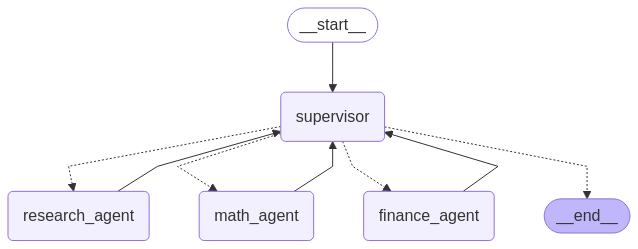
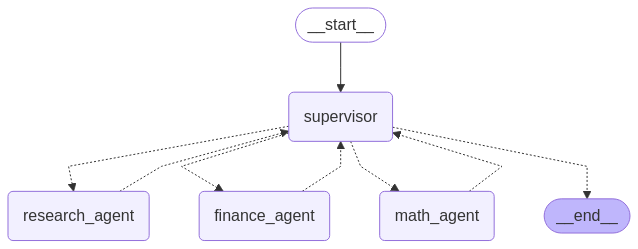
add 14-mutliagent-supervisor-scratch-so

diff --git a/ML Projects/Langgraph-Practice/14-mutliagent-supervisor-scratch-with-so/functions.py b/ML Projects/Langgraph-Practice/14-mutliagent-supervisor-scratch-with-so/functions.py
@@ -1,6 +1,6 @@
 from common_imports import *
 from constants import *
-from classes import AgentState, CityDetails
+from classes import AgentState
 
 def displayGraph(graph):
     # print(graph.get_graph().draw_ascii())
@@ -30,110 +30,103 @@ def get_stock_price(ticker: str) -> float:
     stock = yf.Ticker(ticker)
     return stock.info['previousClose']
 
-def create_handoff_tool(agent_name, description):
-    name = f"transfer_to_{agent_name}"
-    description = description or f"Ask {agent_name} for help."
+def make_supervisor_node(llm, members) -> str:
+    print("====SUPERVISOR NODE=====")
+    options = ["FINISH"] + members
+    system_prompt = (
+        "You are a supervisor tasked with managing a conversation between the"
+        f" following workers: {members}. Given the following user request,"
+        " respond with the worker to act next. Each worker will perform a"
+        " task and respond with their results and status. When finished,"
+        " respond with FINISH."
+    )
 
-    @tool(name, description=description)
-    def handoff_tool(state: Annotated[AgentState, InjectedState], tool_call_id: Annotated[str, InjectedToolCallId]) -> Command:
-        print("\n=== Current State ===")
+    class Router(TypedDict):
+        """Worker to route to next. If no workers needed, route to FINISH."""
+
+        next: Literal[*options]
+
+    def supervisor_node(state: AgentState) -> Command[Literal[*members, END]]:
+        print("===STATE=====")
         print(state)
-        print(f"Tool Call ID: {tool_call_id}")
-        print(f"Transferring to: {agent_name}")
-        print("===================\n")
-        
-        tool_message = {
-            "role": "tool",
-            "content": f"Successfully transferred to {agent_name}",
-            "name": name,
-            "tool_call_id": tool_call_id,
-        }
-        return Command(
-            goto=agent_name,
-            update={**state, "messages": state["messages"] + [tool_message], "question": state["question"], "instructions": state["instructions"]}, # update the state with the tool message
-            graph=Command.PARENT, # transfer control back to the parent graph (supervisor agent)
-        )
+        """An LLM-based router."""
+        previous_messages = state["messages"]
+        invoke_message = [{"role": "system", "content": system_prompt},] + previous_messages
+        print("===INVOKE MESSAGE=====")
+        print(invoke_message)
+        llm_with_structured_output = llm.with_structured_output(Router)
+        response = llm_with_structured_output.invoke(invoke_message)
+        print("===RESPONSE=====")
+        print(response)
+        goto = response["next"]
+        if goto == "FINISH":
+            goto = END
+        print("===GOTO=====")
+        print(goto)
+        return Command(goto=goto, update={"next": goto})
 
-    return handoff_tool
+    return supervisor_node
 
+
+def research_node(state: AgentState) -> Command[Literal[SUPERVISOR_AGENT]]:
+    print("====RESEARCH NODE=====")
+    print("===STATE=====")
+    print(state)
+    research_agent = create_react_agent(llm, tools=research_agent_tools)
+    result = research_agent.invoke(state)
+    print("===RESULT=====")
+    print(result)
+    return Command(
+        update={
+            "messages": [
+                HumanMessage(content=result["messages"][-1].content, name=RESEARCH_AGENT)
+            ]
+        },
+        # We want our workers to ALWAYS "report back" to the supervisor when done
+        goto=SUPERVISOR_AGENT,
+    )
+
+def finance_node(state: AgentState) -> Command[Literal[SUPERVISOR_AGENT]]:
+    print("====FINANCE NODE=====")
+    print("===STATE=====")
+    print(state)
+    finance_agent = create_react_agent(llm, tools=finance_agent_tools)
+    result = finance_agent.invoke(state)
+    print("===RESULT=====")
+    print(result)
+    return Command(
+        update={
+            "messages": [
+                HumanMessage(content=result["messages"][-1].content, name=FINANCE_AGENT)
+            ]
+        },
+        goto=SUPERVISOR_AGENT,
+    )
+
+def math_node(state: AgentState) -> Command[Literal[SUPERVISOR_AGENT]]:
+    print("====MATH NODE=====")
+    print("===STATE=====")
+    print(state)
+    math_agent = create_react_agent(llm, tools=math_agent_tools)
+    result = math_agent.invoke(state)
+    print("===RESULT=====")
+    print(result)
+    return Command(
+        update={
+            "messages": [
+                HumanMessage(content=result["messages"][-1].content, name=MATH_AGENT)
+            ]
+        },
+        goto=SUPERVISOR_AGENT,
+    )
 
 web_search_tool = TavilySearchResults(max_results=3)
-
-embeddings = OpenAIEmbeddings()
 math_agent_tools = [multiply, add, divide]
 research_agent_tools = [web_search_tool]
 finance_agent_tools = [get_stock_price]
 
 llm = ChatOpenAI(model_name="gpt-4o-mini")
-llm_with_structured_output = llm.with_structured_output(CityDetails)
 
-
-research_agent = create_react_agent(
-    model=llm,
-    tools=[web_search_tool],
-    response_format=CityDetails,
-    prompt=(
-        "You are a research agent.\n\n"
-        "INSTRUCTIONS:\n"
-        "- Assist ONLY with research-related tasks, DO NOT do any math\n"
-        "- After you're done with your tasks, respond to the supervisor directly\n"
-        "- Respond ONLY with the results of your work, do NOT include ANY other text."
-    ),
-    name=RESEARCH_AGENT,
-)
-
-math_agent = create_react_agent(
-    model=llm,
-    tools=math_agent_tools,
-    prompt=(
-        "You are a math agent.\n\n"
-        "INSTRUCTIONS:\n"
-        "- Assist ONLY with math-related tasks\n"
-        "- After you're done with your tasks, respond to the supervisor directly\n"
-        "- Respond ONLY with the results of your work, do NOT include ANY other text."
-    ),
-    name=MATH_AGENT,
-)
-
-finance_agent = create_react_agent(
-    model=llm,
-    tools=finance_agent_tools,
-    prompt=(
-        "You are a finance agent.\n\n"
-        "INSTRUCTIONS:\n"
-        "- Assist ONLY with finance-related tasks\n"
-        "- After you're done with your tasks, respond to the supervisor directly\n"
-        "- Respond ONLY with the results of your work, do NOT include ANY other text."
-    ),
-    name=FINANCE_AGENT,
-)
-
-# Handoffs
-assign_to_research_agent = create_handoff_tool(
-    agent_name=RESEARCH_AGENT,
-    description="Assign task to a researcher agent.",
-)
-
-assign_to_math_agent = create_handoff_tool(
-    agent_name=MATH_AGENT,
-    description="Assign task to a math agent.",
-)
-
-assign_to_finance_agent = create_handoff_tool(
-    agent_name=FINANCE_AGENT,
-    description="Assign task to a finance agent.",
-)
-
-supervisor_agent = create_react_agent(
-    model=llm,
-    tools=[assign_to_research_agent, assign_to_math_agent, assign_to_finance_agent],
-    prompt=(
-        "You are a supervisor managing three agents:\n"
-        "- a research agent. Assign research-related tasks to this agent\n"
-        "- a math agent. Assign math-related tasks to this agent\n"
-        "- a finance agent. Assign finance-related tasks to this agent\n"
-        "Assign work to one agent at a time, do not call agents in parallel.\n"
-        "Do not do any work yourself."
-    ),
-    name=SUPERVISOR_AGENT,
-)
+# members = {RESEARCH_AGENT:"use it for researching on the web", FINANCE_AGENT:"use it for getting stock price", MATH_AGENT:"use it for doing math operations"}
+members = [RESEARCH_AGENT, FINANCE_AGENT, MATH_AGENT]
+supervisor_agent = make_supervisor_node(llm, members=members)

diff --git a/ML Projects/Langgraph-Practice/14-mutliagent-supervisor-scratch-with-so/classes.py b/ML Projects/Langgraph-Practice/14-mutliagent-supervisor-scratch-with-so/classes.py
@@ -1,35 +1,4 @@
 from common_imports import *
 
-class CityDetails(BaseModel):
-    """Respond to the user with this"""
-    city_name: str = Field(description="Name of the city")
-    state_name: str = Field(description="State name of the city")
-    state_capital: str = Field(description="State capital of the city")
-    country_name: str = Field(description="Country name of the city")
-    country_capital: str = Field(description="Country capital of the city")
-    summary: str = Field(description="Summary of the city")
-
-class ResearchResponse(BaseModel):
-    """Response format for research agent"""
-    findings: str = Field(description="The research findings")
-    sources: List[str] = Field(description="List of sources used")
-    summary: str = Field(description="Brief summary of the findings")
-
-class MathResponse(BaseModel):
-    """Response format for math agent"""
-    calculation: str = Field(description="The mathematical calculation performed")
-    result: float = Field(description="The numerical result")
-    explanation: str = Field(description="Explanation of the calculation")
-
-class FinanceResponse(BaseModel):
-    """Response format for finance agent"""
-    ticker: str = Field(description="The stock ticker symbol")
-    price: float = Field(description="The stock price")
-    company_name: str = Field(description="Name of the company")
-    additional_info: str = Field(description="Any additional financial information")
-
 class AgentState(MessagesState):
-    """State for the agent."""
-    question: str = Field(description="The question to answer")
-    instructions: str = Field(description="The instructions to follow")
-    final_response: CityDetails = Field(description="The final response to the user")
+    next: str = Field(description="The next agent to call")

diff --git a/ML Projects/Langgraph-Practice/14-mutliagent-supervisor-scratch-with-so/main.py b/ML Projects/Langgraph-Practice/14-mutliagent-supervisor-scratch-with-so/main.py
@@ -7,10 +7,13 @@ if __name__ == "__main__":
     # question = "find US and New York state GDP in 2024. what percentage of US GDP was New York state?? Multiply the result by 369."
     # question = "Who's the richest person in the world? Find what company they own and what's the stock price of the company! Finally, multuply the stock price by 369."
     # question = "What's the stock price of the most valuable company in the world? Give me the name of the CEO of the company too."
-    question = "Tell me about the city of New York."
-    instructions = "Also, give a brief summary of the place in 2-3 sentences."
+    question = "What's the stock price of Tesla?"
+    # question = "Give me some information about Najafgarh"
+    # question = "What is ((3*5) + 10)*5? Also, who's the richest person in the world?"
     displayGraph(graph)
-    result = graph.invoke({"messages": [question], "question": question, "instructions": instructions})
+    result = graph.invoke({"messages": [question]})
     print("======RESULT=======")
+    print(result)
+    print("======FINAL RESPONSE=======")
     for msg in result['messages']:
         msg.pretty_print()

diff --git a/ML Projects/Langgraph-Practice/14-mutliagent-supervisor-scratch-with-so/graph.py b/ML Projects/Langgraph-Practice/14-mutliagent-supervisor-scratch-with-so/graph.py
@@ -1,17 +1,16 @@
-from functions import supervisor_agent, research_agent, math_agent, finance_agent
+from functions import supervisor_agent, research_node, math_node, finance_node
 from constants import *
 from common_imports import *
 from classes import AgentState
 
-graph = (
-    StateGraph(AgentState)
-    .add_node(supervisor_agent, destinations=(RESEARCH_AGENT, MATH_AGENT, FINANCE_AGENT, END))
-    .add_node(research_agent)
-    .add_node(math_agent)
-    .add_node(finance_agent)
-    .add_edge(START, SUPERVISOR_AGENT)
-    .add_edge(RESEARCH_AGENT, SUPERVISOR_AGENT)
-    .add_edge(MATH_AGENT, SUPERVISOR_AGENT)
-    .add_edge(FINANCE_AGENT, SUPERVISOR_AGENT)
-    .compile()
-)
+workflow = StateGraph(AgentState)
+
+workflow.add_node(SUPERVISOR_AGENT, supervisor_agent)
+workflow.add_node(RESEARCH_AGENT, research_node)
+workflow.add_node(MATH_AGENT, math_node)
+workflow.add_node(FINANCE_AGENT, finance_node)
+
+workflow.add_edge(START, SUPERVISOR_AGENT)
+
+graph = workflow.compile()
+

diff --git a/ML Projects/Langgraph-Practice/13-mutliagent-supervisor-with-handoffs/main.py b/ML Projects/Langgraph-Practice/13-mutliagent-supervisor-with-handoffs/main.py
@@ -3,8 +3,9 @@ from functions import displayGraph
 from graph import graph
 
 if __name__ == "__main__":
-    print("Hello from Multi-Agent Supervisor from scratch!")
-    question = "find US and New York state GDP in 2024. what percentage of US GDP was New York state?? Multiply the result by 369."
+    print("Hello from Multi-Agent Supervisor with Handoffs!")
+    # question = "find US and New York state GDP in 2024. what percentage of US GDP was New York state?? Multiply the result by 369."
+    question = "Who's the richest person in the world?"
     displayGraph(graph)
     result = graph.invoke({"messages": [question]})
     print("======RESULT=======")

diff --git a/ML Projects/Langgraph-Practice/13-mutliagent-supervisor-with-handoffs/functions.py b/ML Projects/Langgraph-Practice/13-mutliagent-supervisor-with-handoffs/functions.py
@@ -3,7 +3,7 @@ from constants import *
 
 def displayGraph(graph):
     # print(graph.get_graph().draw_ascii())
-    graph.get_graph().draw_mermaid_png(output_file_path="multiagent-supervisor-scratch.png")
+    graph.get_graph().draw_mermaid_png(output_file_path="multiagent-supervisor-with-handoffs.png")
 
 @tool
 def multiply(a, b):
@@ -49,7 +49,7 @@ def create_handoff_tool(agent_name, description):
 
 embeddings = OpenAIEmbeddings()
 math_agent_tools = [multiply, add, divide]
-llm = ChatOpenAI(model_name="gpt-4o-mini")
+llm = ChatOpenAI(model_name="gpt-4o")
 
 web_search_tool = TavilySearchResults(max_results=3)
 research_agent = create_react_agent(
